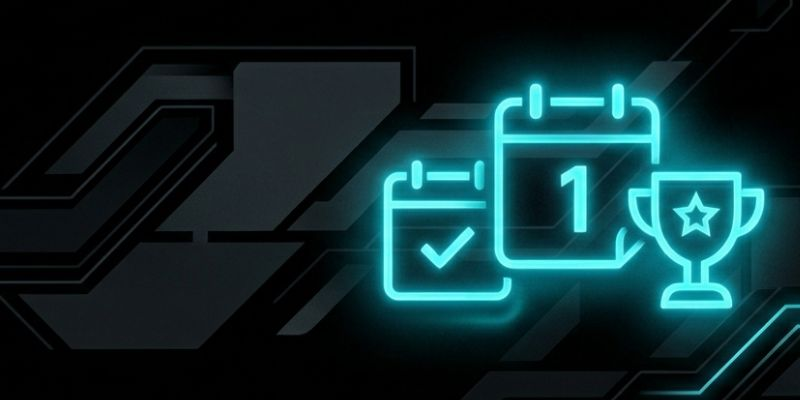
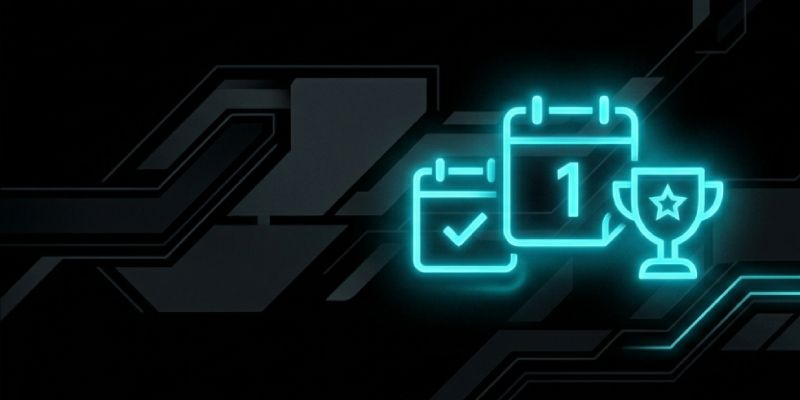
aggiunta immagini

diff --git a/js/screens/home.js b/js/screens/home.js
@@ -11,7 +11,6 @@ export async function mount(container) {
         <div class="section-cards-list">
           <div class="section-card" id="card-tracker" style="background-image:url('./img/home-tracker.jpg')">
             <div class="section-card-overlay"></div>
-            <div class="section-card-icon">📅</div>
             <div class="section-card-body">
               <div class="section-card-title">Daily / Weekly Tracker</div>
               <div class="section-card-subtitle">Track resets &amp; daily tasks for your games</div>
@@ -19,7 +18,6 @@ export async function mount(container) {
           </div>
           <div class="section-card" id="card-builds" style="background-image:url('./img/home-builds.jpg')">
             <div class="section-card-overlay"></div>
-            <div class="section-card-icon">⚔️</div>
             <div class="section-card-body">
               <div class="section-card-title">Game Builds</div>
               <div class="section-card-subtitle">Manage builds &amp; loadouts for your characters</div>